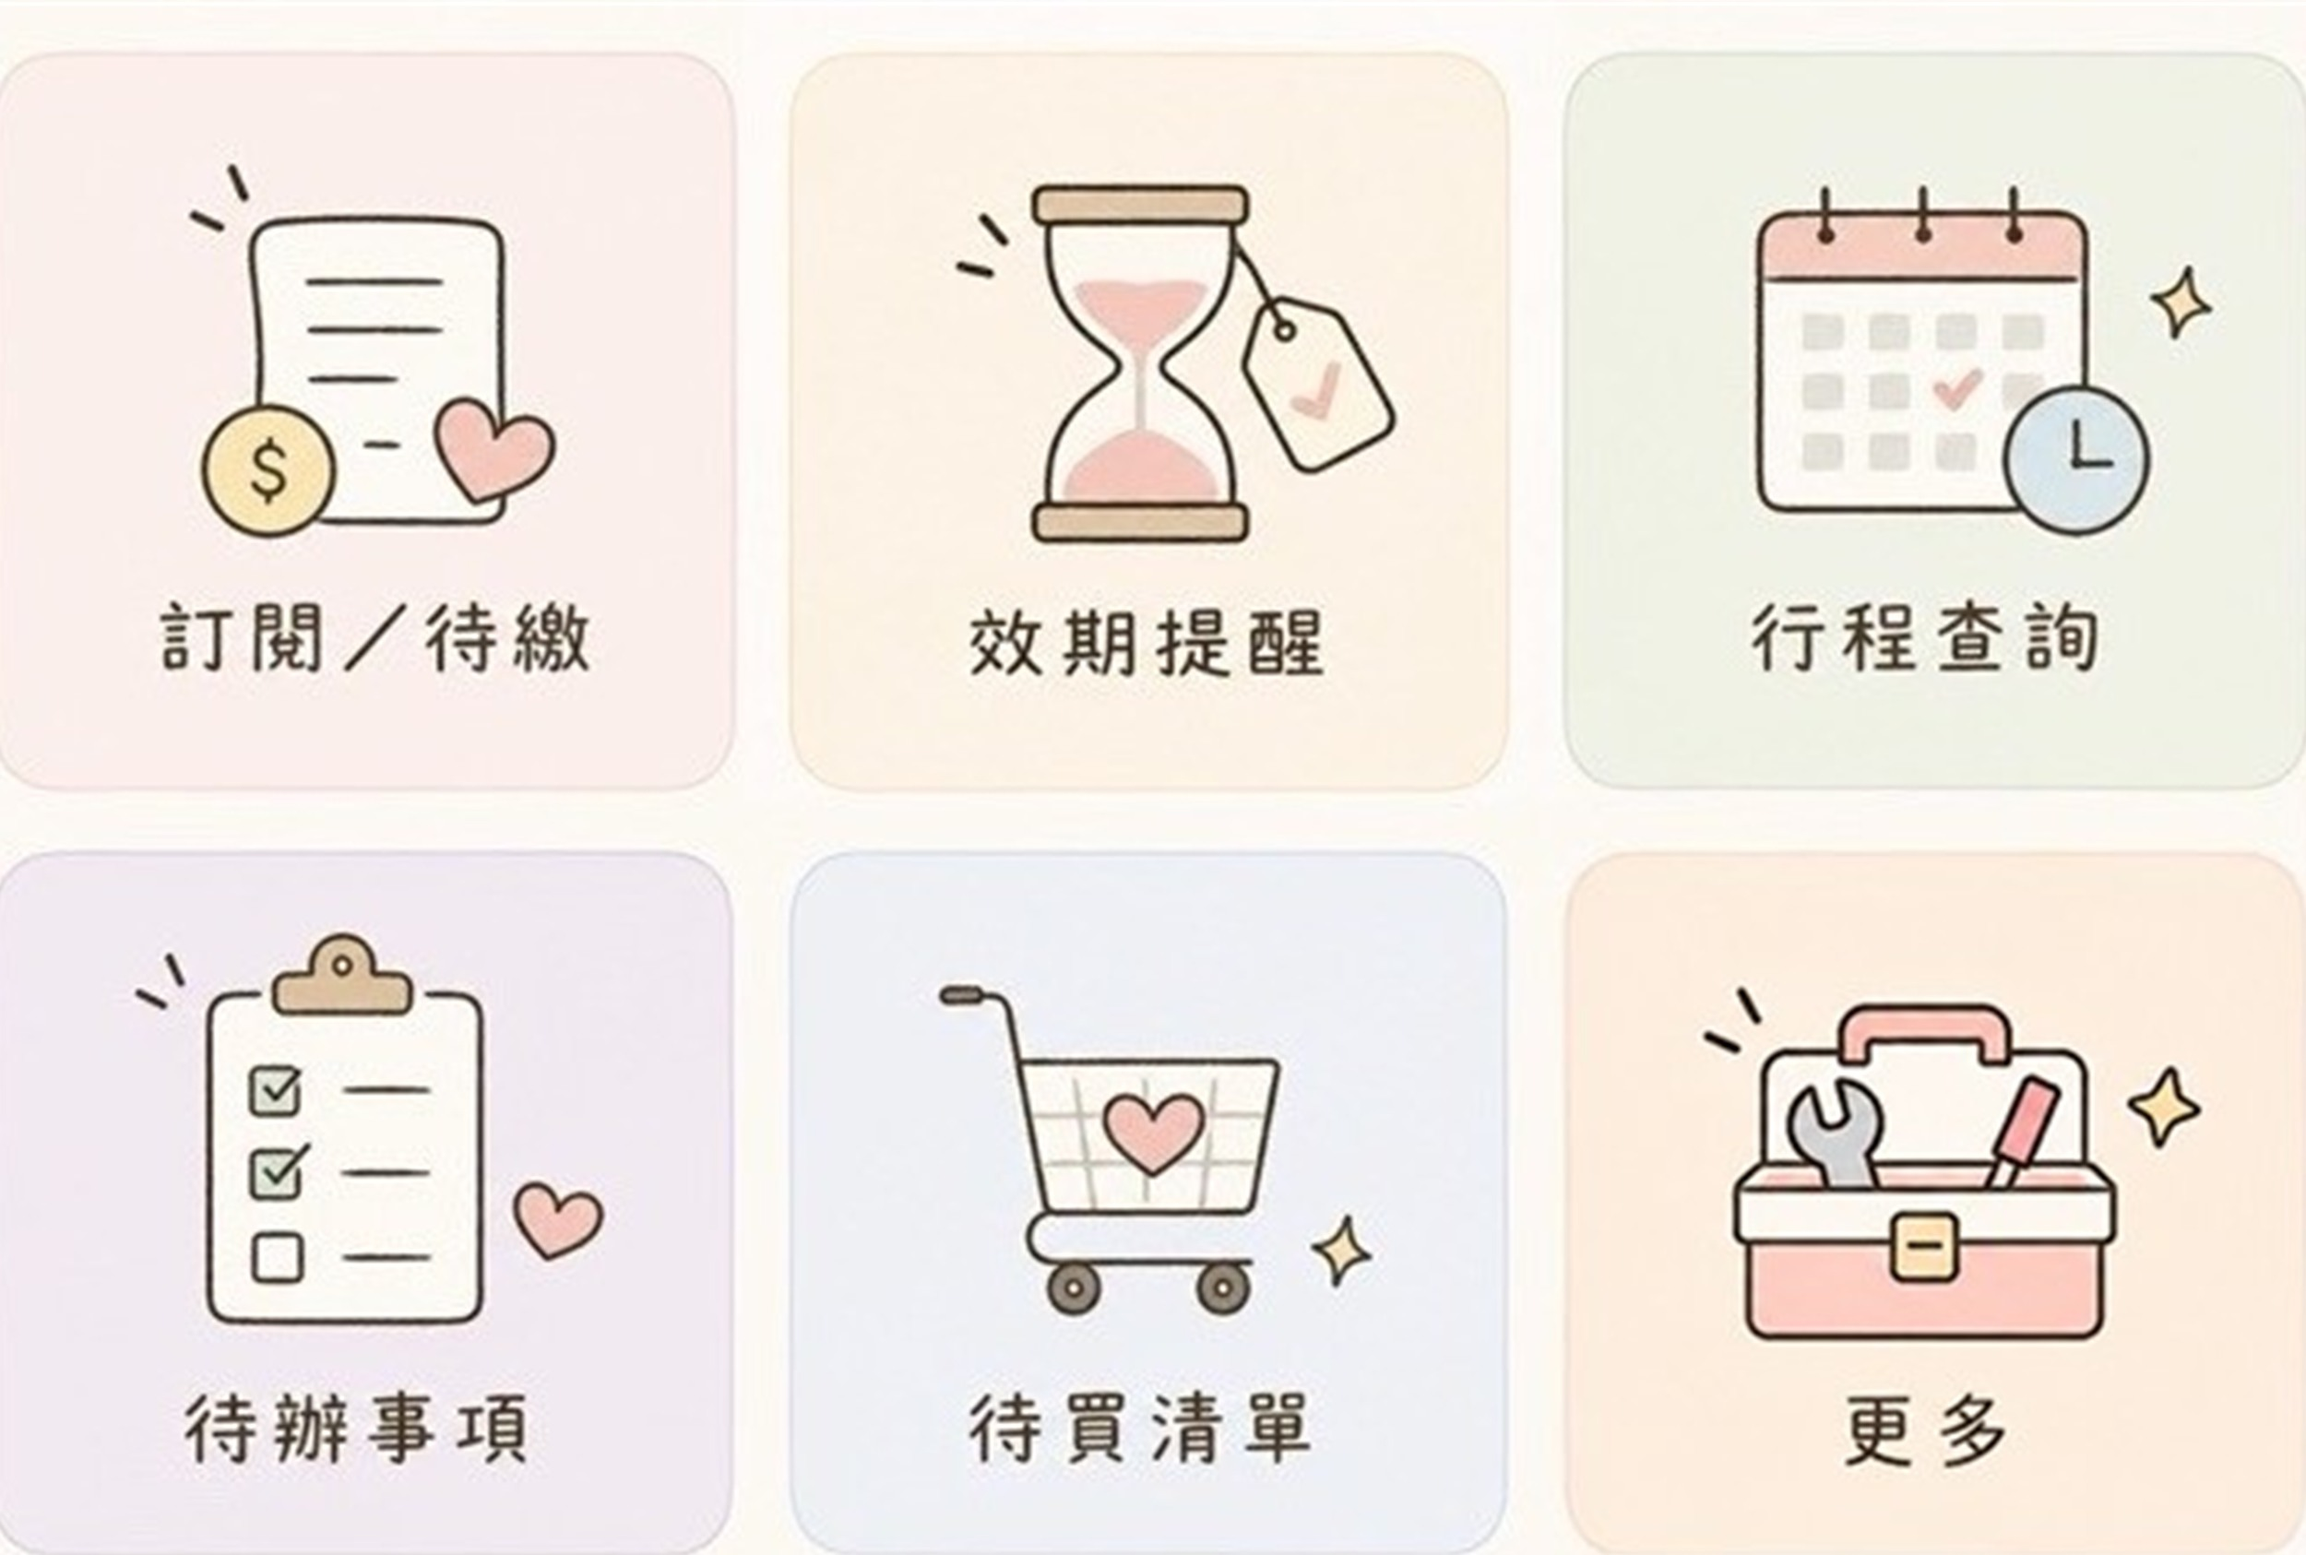
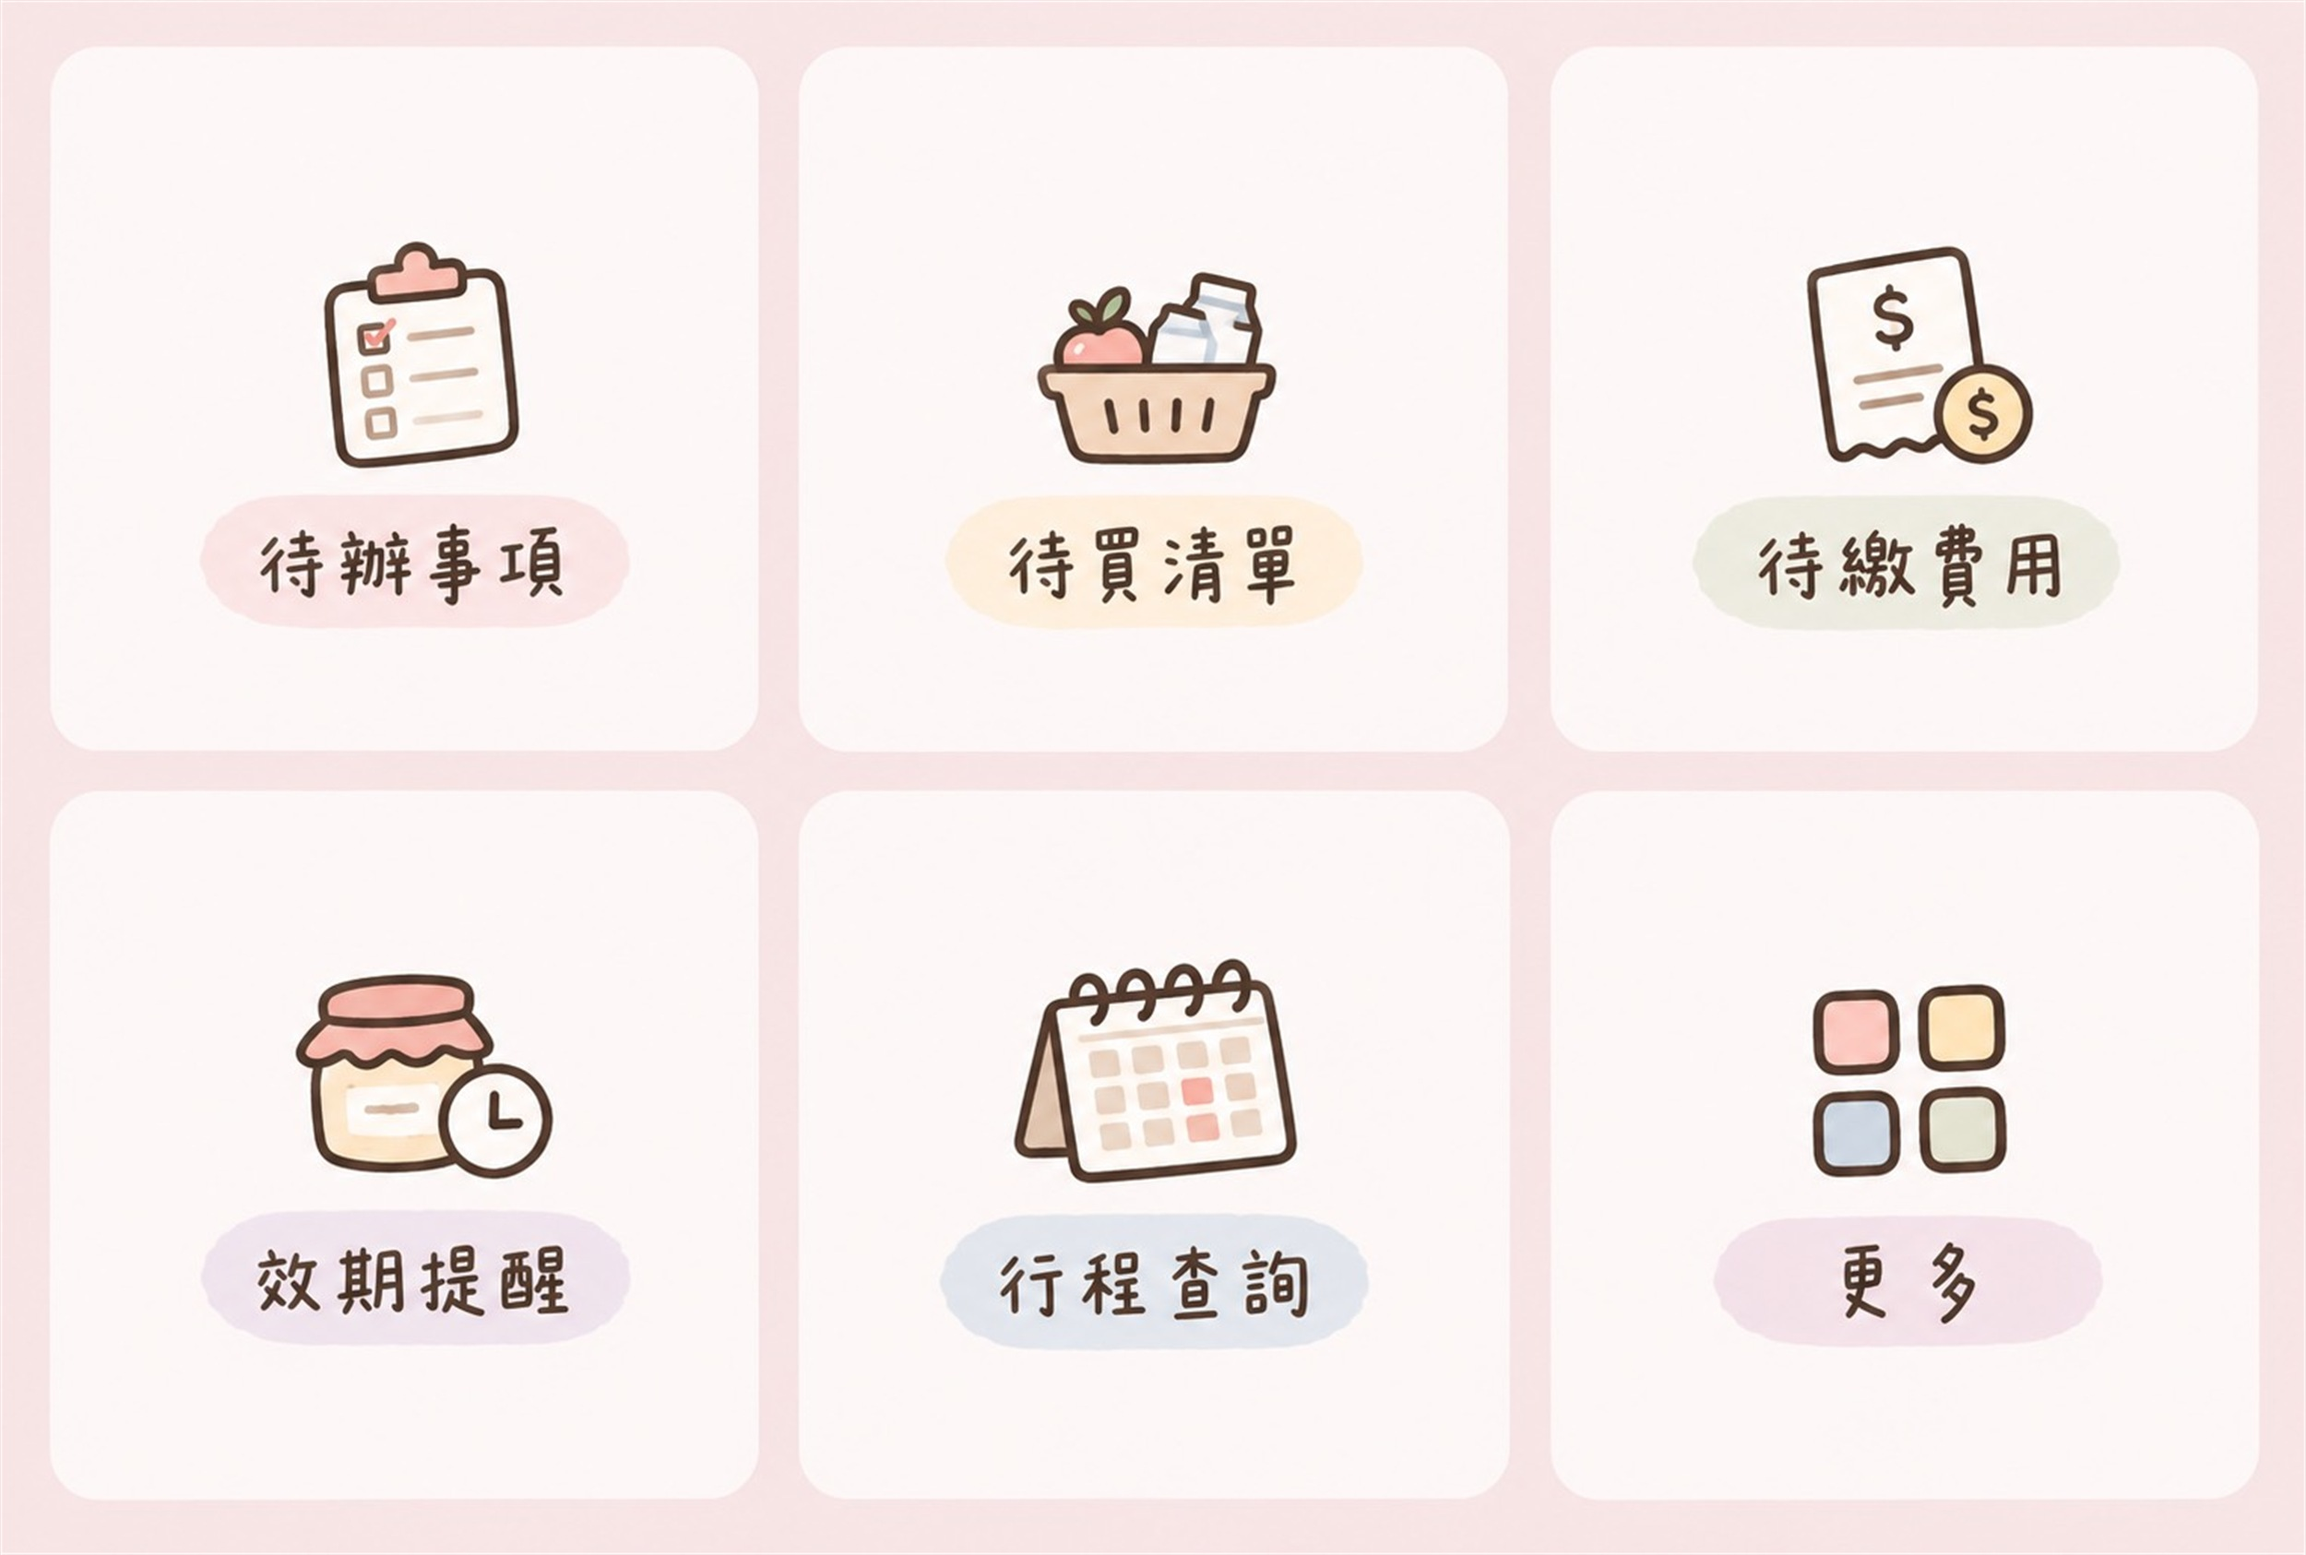
Replace LINE rich menu with supplied design

diff --git a/scripts/setup-rich-menu.js b/scripts/setup-rich-menu.js
@@ -7,32 +7,32 @@ const IMAGE_PATH = process.env.RICH_MENU_IMAGE || path.resolve(__dirname, '..', 
 const richMenu = {
   size: { width: 2500, height: 1686 },
   selected: true,
-  name: '嘟嘟一家主選單｜更多工具箱｜20261029',
-  chatBarText: '小秘書幫幫我✨',
+  name: '嘟嘟一家功能選單 2026-07｜圖1-20261101',
+  chatBarText: '呼叫小秘書🙌🏻',
   areas: [
     {
       bounds: { x: 0, y: 0, width: 833, height: 843 },
-      action: { type: 'postback', data: 'action=bills', displayText: '待繳費' },
+      action: { type: 'message', text: '待辦' },
     },
     {
       bounds: { x: 833, y: 0, width: 833, height: 843 },
-      action: { type: 'postback', data: 'action=expiry', displayText: '效期提醒' },
+      action: { type: 'message', text: '待買' },
     },
     {
       bounds: { x: 1666, y: 0, width: 834, height: 843 },
-      action: { type: 'postback', data: 'action=calendar_menu', displayText: '行程查詢' },
+      action: { type: 'message', text: '待繳' },
     },
     {
       bounds: { x: 0, y: 843, width: 833, height: 843 },
-      action: { type: 'postback', data: 'action=list&type=todo', displayText: '待辦事項' },
+      action: { type: 'message', text: '效期' },
     },
     {
       bounds: { x: 833, y: 843, width: 833, height: 843 },
-      action: { type: 'postback', data: 'action=list&type=buy', displayText: '待買清單' },
+      action: { type: 'message', text: '行程' },
     },
     {
       bounds: { x: 1666, y: 843, width: 834, height: 843 },
-      action: { type: 'postback', data: 'action=more_menu', displayText: '更多' },
+      action: { type: 'message', text: '更多' },
     },
   ],
 };

diff --git a/test/rich-menu.test.js b/test/rich-menu.test.js
@@ -5,15 +5,13 @@ const { moreMenuMessage } = require('../lib/bot');
 const { richMenu } = require('../scripts/setup-rich-menu');
 
 test('Rich Menu 六格對應日常與提醒入口', () => {
-  assert.deepEqual(richMenu.areas.map((area) => area.action.data), [
-    'action=bills',
-    'action=expiry',
-    'action=calendar_menu',
-    'action=list&type=todo',
-    'action=list&type=buy',
-    'action=more_menu',
+  assert.deepEqual(richMenu.areas.map((area) => area.action.text), [
+    '待辦', '待買', '待繳', '效期', '行程', '更多',
   ]);
+  assert.ok(richMenu.areas.every((area) => area.action.type === 'message'));
   assert.deepEqual(richMenu.size, { width: 2500, height: 1686 });
+  assert.equal(richMenu.chatBarText, '呼叫小秘書🙌🏻');
+  assert.equal(richMenu.selected, true);
 });
 
 test('更多功能只保留紀念日、垃圾分類與快速新增', () => {
